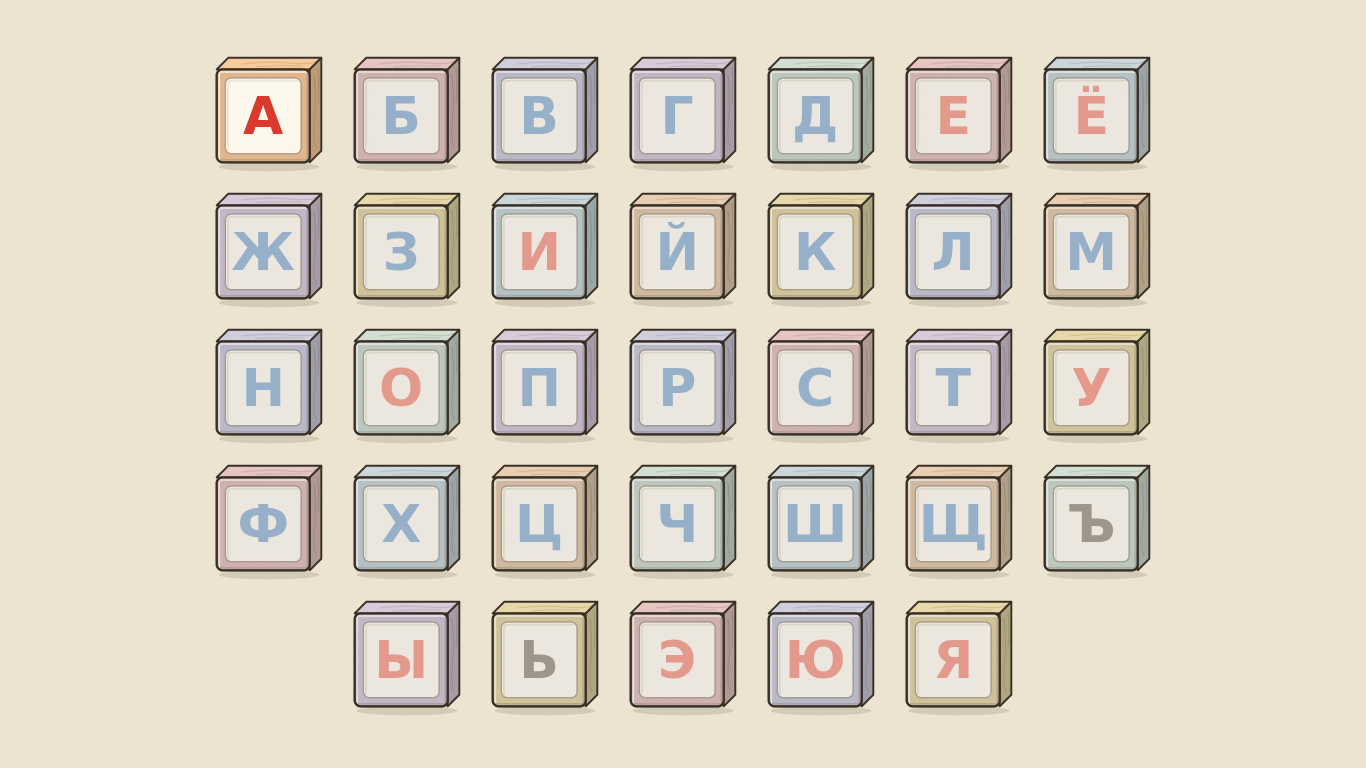
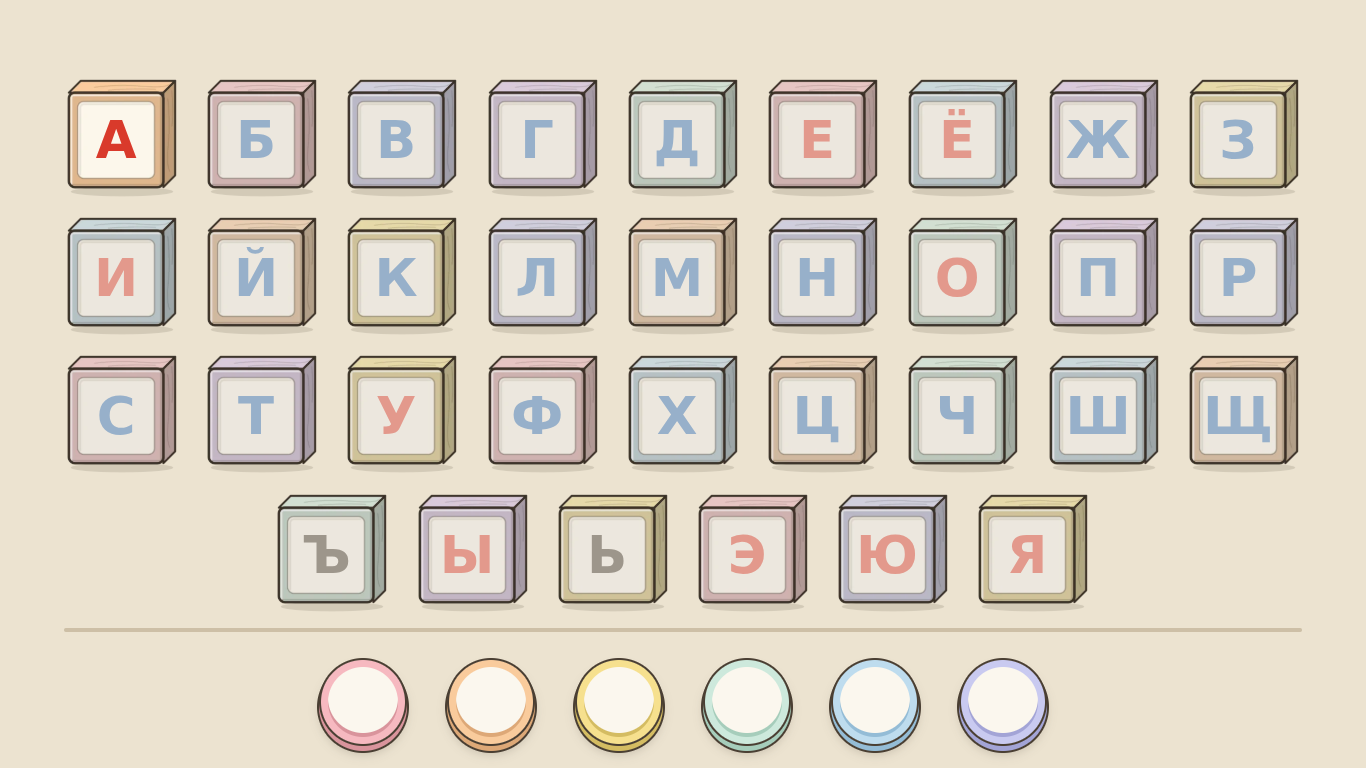
Home: divider under letters + row of 6 empty round buttons

diff --git a/web-home/index.html b/web-home/index.html
@@ -14,10 +14,13 @@
 html, body { margin: 0; padding: 0; height: 100%; overflow: hidden; background: #ECE3D0; }
 body { position: fixed; inset: 0; touch-action: manipulation; -webkit-user-select: none; user-select: none;
   -webkit-touch-callout: none; -webkit-tap-highlight-color: transparent; overscroll-behavior: none; }
-#stage { position: absolute; left: 0; top: 0; width: 1024px; height: 768px; transform-origin: 0 0; visibility: hidden; }
+#stage { position: absolute; inset: 0; visibility: hidden; }
+/* полосы экрана: верх (меню, пока пустое) · кубики · черта · ряд круглых кнопок. Размеры задаёт layout() в JS. */
+#topbar { position: absolute; left: 0; right: 0; top: 0; }
 .cube { position: absolute; width: 124px; height: 124px; padding: 0; margin: 0; border: 0; outline: none; cursor: pointer;
   background: transparent center / 100% 100% no-repeat; -webkit-appearance: none; appearance: none; }
-.cube span { position: absolute; left: 9.7px; top: 19.4px; width: 93px; height: 93px; display: flex; align-items: center;
+/* лицевая грань кубика: 9.7/19.4/93 из 124 (как в letters_menu.gd); шрифт 52/124 от кубика — задаётся в JS */
+.cube span { position: absolute; left: 7.823%; top: 15.645%; width: 75%; height: 75%; display: flex; align-items: center;
   justify-content: center; font: 700 52px/normal "DejaVuBk", "DejaVu Sans", sans-serif; pointer-events: none; }
 .cube.locked { cursor: default; }
 .cube.wobble { animation: wobble .35s linear; }
@@ -29,14 +32,27 @@ body { position: fixed; inset: 0; touch-action: manipulation; -webkit-user-selec
 #cube-a.press { animation: none; transform: scale(.92); transition: transform .08s; }
 #cube-a.go { animation: go .7s ease-in-out infinite; }
 @keyframes go { 0% { transform: scale(.92) } 35% { transform: scale(1.14) } 100% { transform: scale(1.06) } }
-#stage.leaving .cube.locked { opacity: .55; transition: opacity .3s; }
-#hand { position: absolute; width: 96px; height: 96px; transform-origin: 20px 4px; pointer-events: none; display: none; z-index: 5; }
+#stage.leaving .cube.locked, #stage.leaving .rb { opacity: .55; transition: opacity .3s; }
+/* черта под алфавитом — тёплая бежевая, скруглённые концы */
+#divider { position: absolute; height: 4px; border-radius: 99px; background: #CDBFA6; pointer-events: none; }
+/* ряд круглых кнопок (пока пустые): светлая грань, пастельный ободок, тёмный контур и «толщина» снизу — как у кубиков */
+#bottombar { position: absolute; left: 0; right: 0; }
+.rb { position: absolute; box-sizing: border-box; padding: 0; margin: 0; border-radius: 50%; cursor: pointer; outline: none;
+  -webkit-appearance: none; appearance: none; background: #FBF7EE; border: solid #4A3F33;
+  transition: transform .12s ease-out; }
+.rb.press { transform: scale(.88); transition: transform .06s ease-in; }
+#hand { position: absolute; width: 96px; height: 96px; transform-origin: 20.8% 4.2%; pointer-events: none; display: none; z-index: 5; }
 #hand.tap { animation: tap .5s ease-in-out 3; }
 @keyframes tap { 0%, 100% { transform: scale(1) } 50% { transform: scale(.85) } }
 </style>
 </head>
 <body>
-<div id="stage" aria-label="Буквы"></div>
+<div id="stage">
+  <div id="topbar" aria-hidden="true"></div>
+  <div id="letters" role="group" aria-label="Буквы"></div>
+  <div id="divider" aria-hidden="true"></div>
+  <div id="bottombar" role="toolbar" aria-label="Кнопки"></div>
+</div>
 <script>
 (function () {
   "use strict";
@@ -45,7 +61,11 @@ body { position: fixed; inset: 0; touch-action: manipulation; -webkit-user-selec
   var VOWELS = "АЕЁИОУЫЭЮЯ";
   // открытая буква / закрытая (= цвет.lerp(#ECE7DC, 0.55))
   var COL = { v: "#D93A2B", c: "#2F6DB5", s: "#3C3228" }, COL_LOCK = { v: "#E3998C", c: "#97B0CA", s: "#9D968B" };
-  var W = 1024, H = 768, COLS = 7, SIZE = 124, STEP_X = 138, STEP_Y = 136, X0 = 36, Y0 = 50;
+  // кубик 124 → шаг 138×136 (пропорции letters_menu.gd); остальное — в единицах «сцены» 1024×768, см. layout()
+  var W = 1024, H = 768, SX = 138 / 124, SY = 136 / 124;
+  var TOP_BAR = 72, BTN = 88, BTN_MIN = 64, BTN_GAP = 40, BAR_PAD_T = 14, BAR_PAD_B = 20, DIV_H = 4, DIV_GAP = 14, SIDE = 28;
+  var BTN_COLORS = ["#F6B9C0", "#F9CB9C", "#F6E08E", "#CDE9DC", "#BEDCEE", "#C9CAF0"];   // «мягкая радуга», без красного
+  var BTN_DEPTH = ["#D9949C", "#DDA877", "#D4BC62", "#A6CDBB", "#94BCD6", "#A3A4D6"];
   var IDLE_HINT_SEC = 20, HINT_SHOW = 2;
   var LESSON = "lesson-a/";
   var PASS = ["debug", "junior", "hint_sec", "test", "fast", "audio"];   // параметры, которые уходят в урок
@@ -58,23 +78,36 @@ body { position: fixed; inset: 0; touch-action: manipulation; -webkit-user-selec
   PASS.forEach(function (k) { if (q.has(k)) lq.set(k, q.get(k)); });
   var lessonHref = LESSON + (lq.toString() ? "?" + lq.toString() : "");
 
-  var stage = document.getElementById("stage"), cubeA = null, cubeLocked = null, state = "wait_letter", hintShown = 0;
+  var stage = document.getElementById("stage"), letters = document.getElementById("letters"), divider = document.getElementById("divider"),
+    bar = document.getElementById("bottombar"), topbar = document.getElementById("topbar");
+  var cubeA = null, cubeLocked = null, state = "wait_letter", hintShown = 0, cubes = [], btns = [];
   for (var i = 0; i < ALPHABET.length; i++) {
     var ch = ALPHABET[i], locked = ch !== ACTIVE;
-    var col = i % COLS + (i >= 28 ? 1 : 0), row = Math.floor(i / COLS);
     var b = document.createElement("button");
     b.className = "cube" + (locked ? " locked" : "");
-    b.style.left = (X0 + col * STEP_X) + "px"; b.style.top = (Y0 + row * STEP_Y) + "px";
     b.style.backgroundImage = "url(assets/cube_" + ORDER[i] + (locked ? "_lock" : "") + ".webp)";
     b.setAttribute("aria-label", "Буква " + ch + (locked ? " (пока закрыта)" : ""));
     var kind = VOWELS.indexOf(ch) >= 0 ? "v" : (ch === "Ь" || ch === "Ъ") ? "s" : "c";
     var s = document.createElement("span"); s.textContent = ch; s.style.color = (locked ? COL_LOCK : COL)[kind];
-    b.appendChild(s); stage.appendChild(b);
+    b.appendChild(s); letters.appendChild(b); cubes.push(b);
     if (!locked) { b.id = "cube-a"; cubeA = b; }
     else {
       if (ch === "Б") cubeLocked = b;
       b.addEventListener("pointerdown", wobble);
     }
+  }
+  // нижний ряд: 6 пустых круглых кнопок (data-slot 1…6) — пока только «нажимаются», действий нет
+  for (var j = 0; j < 6; j++) {
+    var r = document.createElement("button");
+    r.className = "rb"; r.type = "button"; r.dataset.slot = String(j + 1);
+    r.setAttribute("aria-label", "Кнопка " + (j + 1) + " (пока пустая)");
+    r.style.borderColor = "#4A3F33"; r.dataset.color = BTN_COLORS[j];
+    bar.appendChild(r); btns.push(r); rb_on(r);
+  }
+  function rb_on(r) {
+    var off = function () { r.classList.remove("press"); };
+    r.addEventListener("pointerdown", function () { if (state !== "leaving") r.classList.add("press"); });
+    r.addEventListener("pointerup", off); r.addEventListener("pointerleave", off); r.addEventListener("pointercancel", off);
   }
   var hand = document.createElement("img");
   hand.id = "hand"; hand.alt = ""; hand.src = "assets/hand_f1.webp"; stage.appendChild(hand);
@@ -104,13 +137,59 @@ body { position: fixed; inset: 0; touch-action: manipulation; -webkit-user-selec
     if (e.persisted) { state = "wait_letter"; cubeA.classList.remove("go", "press"); stage.classList.remove("leaving"); idle = 0; publish(); }
   });
 
-  // масштаб: сцена 1024×768 целиком в окне, по центру (как stretch canvas_items + aspect expand в Godot)
-  var k = 1, ox = 0, oy = 0;
+  // раскладка в пикселях окна. s — масштаб «сцены» 1024×768 (как раньше); полосы: верх TOP_BAR·s (место под меню),
+  // внизу ряд кнопок (BTN·s, но не меньше BTN_MIN px — палец ребёнка), над ним черта; кубики — максимально крупные в
+  // оставшейся области. 4:3 — всегда 7×5; на широких экранах берём 9×4 / 11×3, если кубики выходят заметно крупнее.
+  var s = 1, cube = 124, gx = 0, gy = 0, cols = 7, ax0 = 0, ay0 = 0;
+  function gridFit(n, aw, ah) {
+    var rows = Math.ceil(ALPHABET.length / n);
+    return Math.min(aw / ((n - 1) * SX + 1), ah / ((rows - 1) * SY + 1));
+  }
   function layout() {
     var vw = window.innerWidth, vh = window.innerHeight;
-    k = Math.min(vw / W, vh / H); ox = (vw - W * k) / 2; oy = (vh - H * k) / 2;
-    stage.style.transform = "translate(" + ox + "px," + oy + "px) scale(" + k + ")";
+    s = Math.min(vw / W, vh / H);
+    var top = Math.round(TOP_BAR * s), btn = Math.round(Math.max(BTN_MIN, BTN * s));
+    var barH = Math.round(btn + (BAR_PAD_T + BAR_PAD_B) * s), divH = Math.max(3, Math.round(DIV_H * s)), gap = Math.round(DIV_GAP * s);
+    var side = Math.round(SIDE * s), areaTop = top, areaH = vh - top - barH - divH - 2 * gap, areaW = vw - 2 * side;
+    // выбор сетки
+    // 7×5 остаётся, если другая сетка не даёт кубик крупнее хотя бы на 12 % (так 4:3 и iPad Air 1180×820 — всегда 7×5)
+    var c7 = gridFit(7, areaW, areaH), best = 7, bestC = c7;
+    (vw >= vh ? [9, 11] : [5]).forEach(function (n) { var c = gridFit(n, areaW, areaH); if (c > bestC) { best = n; bestC = c; } });
+    if (bestC < c7 * 1.12) { best = 7; bestC = c7; }
+    cols = best; cube = Math.floor(Math.min(bestC, 124 * s * 1.35));
+    var rows = Math.ceil(ALPHABET.length / cols), stx = cube * SX, sty = cube * SY;
+    var gw = (cols - 1) * stx + cube, gh = (rows - 1) * sty + cube;
+    gx = Math.round((vw - gw) / 2); gy = Math.round(areaTop + (areaH - gh) / 2);
+    var lastN = ALPHABET.length - (rows - 1) * cols, lastOff = (cols - lastN) / 2;
+    var fs = cube * 52 / 124;
+    for (var i = 0; i < cubes.length; i++) {
+      var row = Math.floor(i / cols), col = i % cols + (row === rows - 1 ? lastOff : 0), b = cubes[i];
+      b.style.width = b.style.height = cube + "px";
+      b.style.left = Math.round(gx + col * stx) + "px"; b.style.top = Math.round(gy + row * sty) + "px";
+      b.firstChild.style.fontSize = fs.toFixed(1) + "px";
+    }
+    ax0 = gx; ay0 = gy;
+    topbar.style.height = top + "px";
+    // черта: по ширине сетки (без тени кубика справа), сразу под областью кубиков
+    var dTop = vh - barH - gap - divH, dw = Math.round(gw - cube * 0.08);
+    divider.style.left = Math.round((vw - dw) / 2) + "px"; divider.style.width = dw + "px";
+    divider.style.top = dTop + "px"; divider.style.height = divH + "px";
+    // кнопки: по центру, равные промежутки
+    var bgap = Math.round(Math.max(BTN_GAP * s, btn * 0.3)), rw = 6 * btn + 5 * bgap, bx = Math.round((vw - rw) / 2);
+    var by = Math.round(vh - barH + BAR_PAD_T * s - 2 * s);
+    bar.style.top = (vh - barH) + "px"; bar.style.height = barH + "px";
+    var ring = Math.max(5, Math.round(btn * 0.085)), ink = Math.max(2, Math.round(btn * 0.028)), depth = Math.max(3, Math.round(btn * 0.055));
+    for (var j = 0; j < btns.length; j++) {
+      var r = btns[j];
+      r.style.width = r.style.height = btn + "px";
+      r.style.left = (bx + j * (btn + bgap)) + "px"; r.style.top = (by - (vh - barH)) + "px";
+      r.style.borderWidth = ink + "px";
+      r.style.boxShadow = "inset 0 0 0 " + ring + "px " + BTN_COLORS[j] + ", inset 0 " + (-Math.round(ring * 0.5)) + "px 0 " + ring + "px " + BTN_DEPTH[j] +
+        ", 0 " + depth + "px 0 0 " + BTN_DEPTH[j] + ", 0 " + depth + "px 0 " + ink + "px #4A3F33, 0 " + (depth + 4) + "px " + Math.round(depth * 2) + "px rgba(60,50,40,.2)";
+    }
+    var hs = cube * 96 / 124; hand.style.width = hand.style.height = hs.toFixed(1) + "px";
     stage.style.visibility = "visible";
+    if (showing) placeHand();
   }
   layout();
   window.addEventListener("resize", layout);
@@ -124,13 +203,17 @@ body { position: fixed; inset: 0; touch-action: manipulation; -webkit-user-selec
   document.addEventListener("visibilitychange", resetIdle);
   function showHand() {
     showing = true; idle = 0; hintShown++;
-    hand.style.left = (X0 + SIZE / 2 - 20) + "px"; hand.style.top = (Y0 + SIZE / 2 - 4) + "px";
+    placeHand();
     hand.src = "assets/hand_f1.webp"; hand.style.display = "block";
     hand.classList.remove("tap"); void hand.offsetWidth; hand.classList.add("tap");
     var n = 0;
     frameTimer = setInterval(function () { n++; hand.src = n % 2 ? "assets/hand_f2.webp" : "assets/hand_f1.webp"; if (n >= 6) clearInterval(frameTimer); }, 250);
     handTimer = setTimeout(hideHand, HINT_SHOW * 1000);
     publish();
+  }
+  function placeHand() {   // кончик пальца (20,4 из 96) — в центр кубика «А»
+    var r = cubeA.getBoundingClientRect(), u = cube / 124, cx = cubeA.offsetLeft + cube / 2, cy = cubeA.offsetTop + cube / 2;
+    hand.style.left = (cx - 20 * u) + "px"; hand.style.top = (cy - 4 * u) + "px";
   }
   function hideHand() {
     clearTimeout(handTimer); clearInterval(frameTimer);
@@ -146,9 +229,10 @@ body { position: fixed; inset: 0; touch-action: manipulation; -webkit-user-selec
   // для автотеста: координаты целей в CSS-пикселях окна
   function center(el) { var r = el.getBoundingClientRect(); return [Math.round(r.left + r.width / 2), Math.round(r.top + r.height / 2)]; }
   function publish() {
-    var t = { letter_a: center(cubeA), letter_locked: center(cubeLocked) };
-    if (showing) t.hint_hand = [Math.round(ox + (X0 + SIZE / 2) * k), Math.round(oy + (Y0 + SIZE / 2) * k)];
-    window.__home = { step: "home", state: state, hint_sec: hintSec, hint_shown: hintShown, targets: t, lesson_href: lessonHref, scale: k };
+    var t = { letter_a: center(cubeA), letter_locked: center(cubeLocked), buttons: btns.map(center) };
+    if (showing) t.hint_hand = [Math.round(cubeA.offsetLeft + cube / 2), Math.round(cubeA.offsetTop + cube / 2)];
+    window.__home = { step: "home", state: state, hint_sec: hintSec, hint_shown: hintShown, targets: t, lesson_href: lessonHref,
+      scale: s, cube: cube, cols: cols, button: btns[0].offsetWidth };
   }
   publish(); setInterval(publish, 250);
 

diff --git a/godot-proto/README.md b/godot-proto/README.md
@@ -29,7 +29,7 @@ PORT=28790 node tests/smoke.mjs     # THROTTLE=1 — сеть ~10 Мбит/с, R
 
 **Сайт = HTML-главная + урок в `lesson-a/`** (собирает `.github/workflows/pages.yml`):
 
-- `/` — **главная с алфавитом**: папка `../web-home/` (обычные HTML/CSS/JS, ~45 КБ, Godot не грузится). Это 1:1 копия экрана букв Godot (`menu/letters_menu.gd`): 33 кубика 7 в ряд, палитра «мягкая радуга», шрифт DejaVu Sans Bold (подмножество А–Я, woff2), закрытые буквы приглушены и качаются от тапа; через 20 с без касаний — рука над «А». Сцена 1024×768 вписывается в любое окно по центру, без прокрутки. Ассеты главной пересобираются из финальной графики проекта: `python3 web-home/tools/make_assets.py` (из корня репозитория; Pillow, fonttools, brotli) — там же обновляется `core/app_icon.png`.
+- `/` — **главная с алфавитом**: папка `../web-home/` (обычные HTML/CSS/JS, ~45 КБ, Godot не грузится). Кубики — как на экране букв Godot (`menu/letters_menu.gd`): 33 кубика, палитра «мягкая радуга», шрифт DejaVu Sans Bold (подмножество А–Я, woff2), закрытые буквы приглушены и качаются от тапа; через 20 с без касаний — рука над «А». Экран — три полосы (раскладка в `layout()`): сверху пустая полоса 72·s под будущее меню; кубики (на 4:3 всегда 7×5, на широких — 9×4 или 11×3, если кубик выходит крупнее на ≥12 %; на 1024×768 кубик 100 px); тонкая бежевая черта #CDBFA6 по ширине сетки; внизу ряд из 6 пустых круглых кнопок (`.rb`, `data-slot=1…6`, 88·s px, не меньше 64 px, ободки — цвета палитры), пока только сжимаются при нажатии. Всё в любом окне без прокрутки. Ассеты главной пересобираются из финальной графики проекта: `python3 web-home/tools/make_assets.py` (из корня репозитория; Pillow, fonttools, brotli) — там же обновляется `core/app_icon.png`.
 - Тап «А» → сразу отклик (кубик «нажимается» и пульсирует) → переход на `lesson-a/` с параметрами `debug`, `junior`, `hint_sec` (и `test`, `fast`, `audio` для тестов).
 - `lesson-a/` — Godot. Без `?step` урок **каждый раз начинается с памятки взрослому `s00`** (её кнопка «Начнём!» — первый жест, на iOS он включает звук) → `s01`…`s10`.
 - Крестик `ui_exit` справа вверху на `s00–s10` и «домой» в `s10` → назад на главную (`../`), параметры адреса сохраняются, кроме `step` (`main.go_home()`, через JavaScriptBridge).
@@ -40,7 +40,7 @@ PORT=28790 node tests/smoke.mjs     # THROTTLE=1 — сеть ~10 Мбит/с, R
   ```bash
   $G --headless --path . --export-release "Web" build/index.html
   bash tests/assemble_site.sh            # ../site = web-home/ + lesson-a/ (= build/), как в CI
-  PORT=55783 node tests/home.mjs         # главная: без wasm/pck, вес, 4:3/16:9, сходство с Godot, рука, «А» → урок → крестик → домой
+  PORT=55783 node tests/home.mjs         # главная: без wasm/pck, вес, раскладка (меню/кубики/черта/6 кнопок) на 4:3/16:10/16:9/телефонах, кнопки, рука, «А» → урок → крестик → домой
   PORT=55791 node tests/lesson.mjs       # весь урок: главная → «А» → s00 … s10 → «домой» → главная; крестик; подсказки
   ```
 
